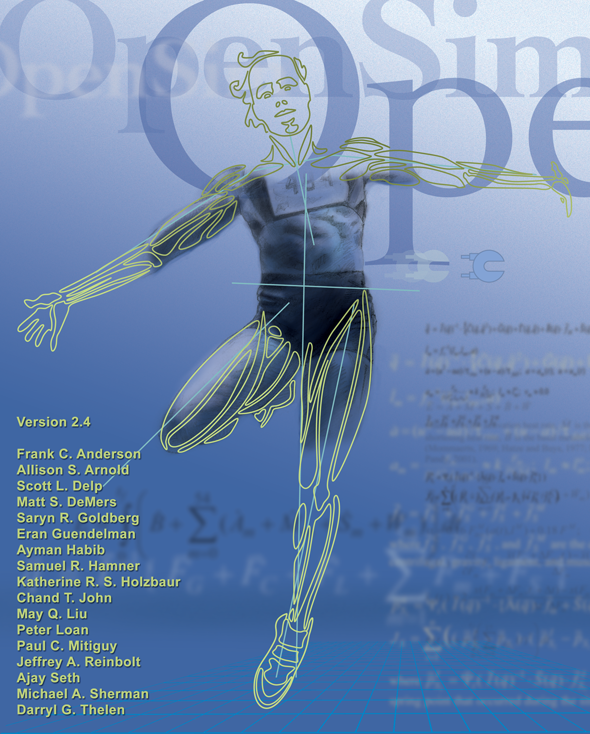
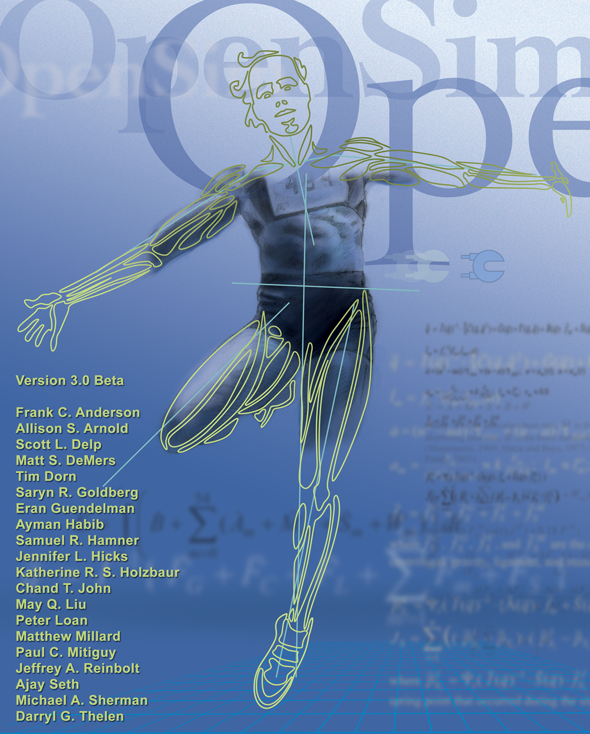
Update splash screen and versionnumbers on GUI to 3.0.beta1
git-svn-id: https://simtk.org/svn/opensim/Trunk@7192 551e70df-b0f6-0310-80ee-9b1508f7454c

Changed region(s): [[0.0305, 0.5095, 0.3051, 0.9891]]

diff --git a/Gui/opensim/view/src/org/opensim/view/Installer.java b/Gui/opensim/view/src/org/opensim/view/Installer.java
@@ -49,6 +49,7 @@ import org.opensim.view.editors.MuscleEditorTopComponent;
 import javax.swing.JPopupMenu;
 import org.opensim.utils.ApplicationState;
 import org.opensim.view.actions.ApplicationExit;
+import org.opensim.view.markerEditor.MarkerEditorTopComponent;
 import org.opensim.view.motions.MotionsDB;
 import org.opensim.view.motions.MotionsDBDescriptor;
 import org.opensim.view.pub.ViewDBDescriptor;
@@ -73,7 +74,7 @@ public class Installer extends ModuleInstall {
 
     public void restored() {
         super.restored();
-        System.setProperty ("netbeans.buildnumber", "3.0.0.dev1"); // Should get that from JNI but sometimes doesn't work'
+        System.setProperty ("netbeans.buildnumber", "3.0.beta1"); // Should get that from JNI but sometimes doesn't work'
         try {
              // Put your startup code here.
             UIManager.setLookAndFeel( UIManager.getSystemLookAndFeelClassName() );
@@ -84,6 +85,7 @@ public class Installer extends ModuleInstall {
                // which is necessary to allow moving muscle points even if the muscle editor top component is not shown
                // Note that this may cause a warning exception "Cannot find MuscleEditor component" to be shown... just ignore it.
                MuscleEditorTopComponent.findInstance();
+               MarkerEditorTopComponent.findInstance();
             }});
         } catch (ClassNotFoundException ex) {
             ex.printStackTrace();
@@ -128,7 +130,6 @@ public class Installer extends ModuleInstall {
             }
         }
         PropertyEditorManager.registerEditor(OpenSimObject.class, OpenSimObjectEditor.class);
-        PropertyEditor findEditor = PropertyEditorManager.findEditor(OpenSimObject.class);
     }
     /**
      * restorePrefs is primarily used for the first time around where there are no pref values
